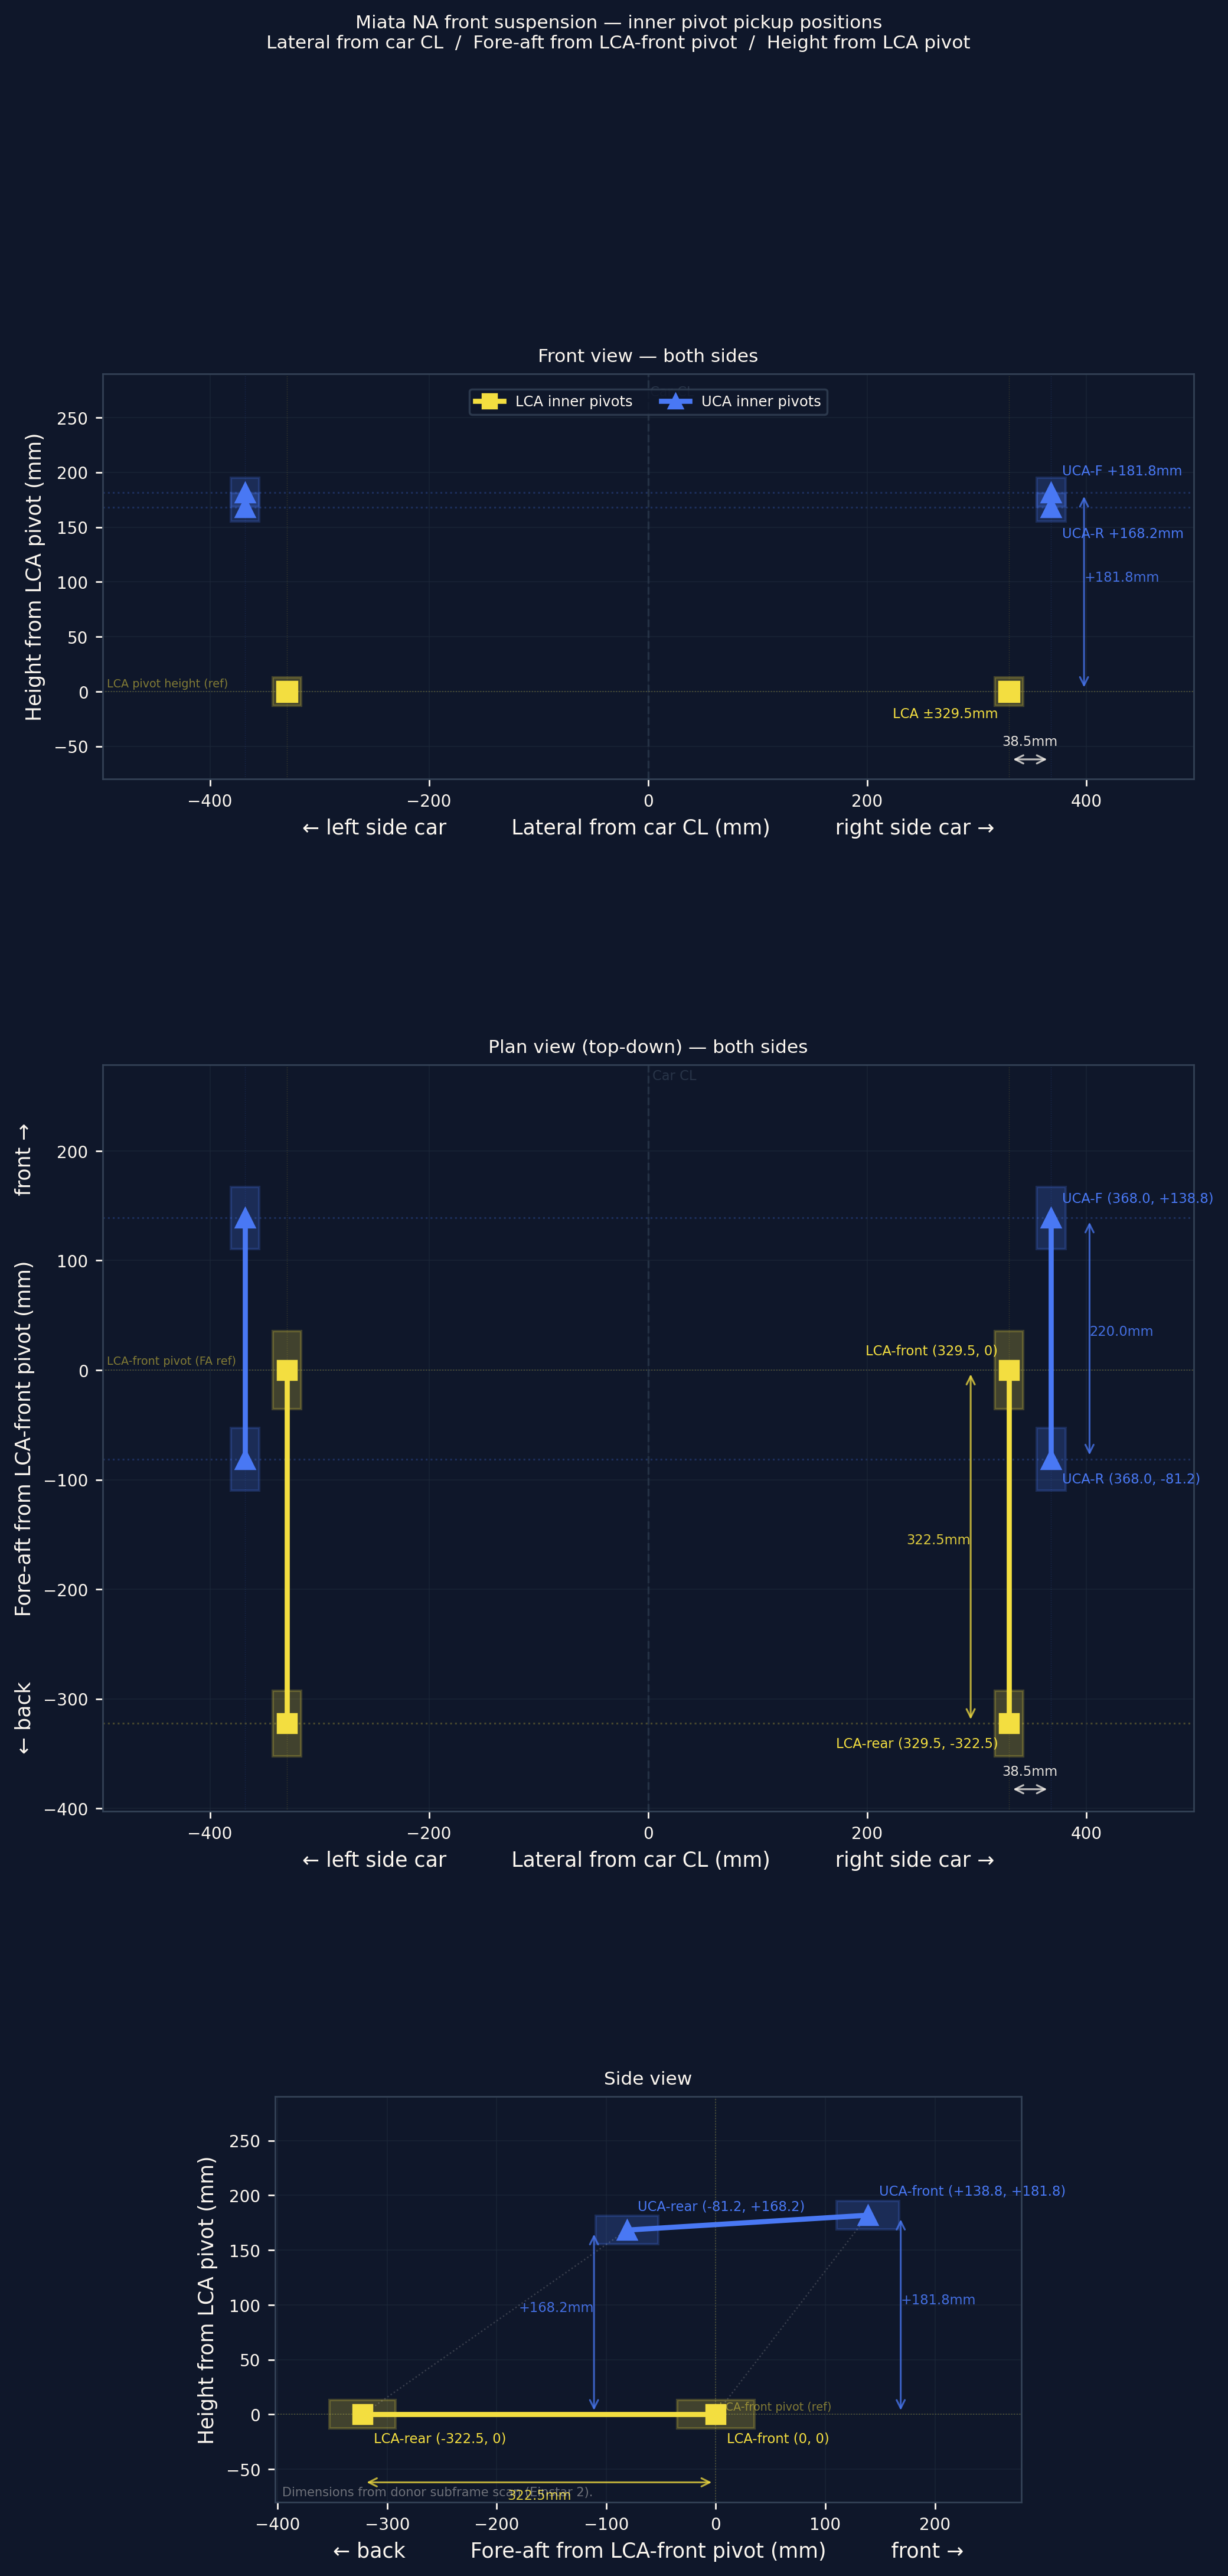
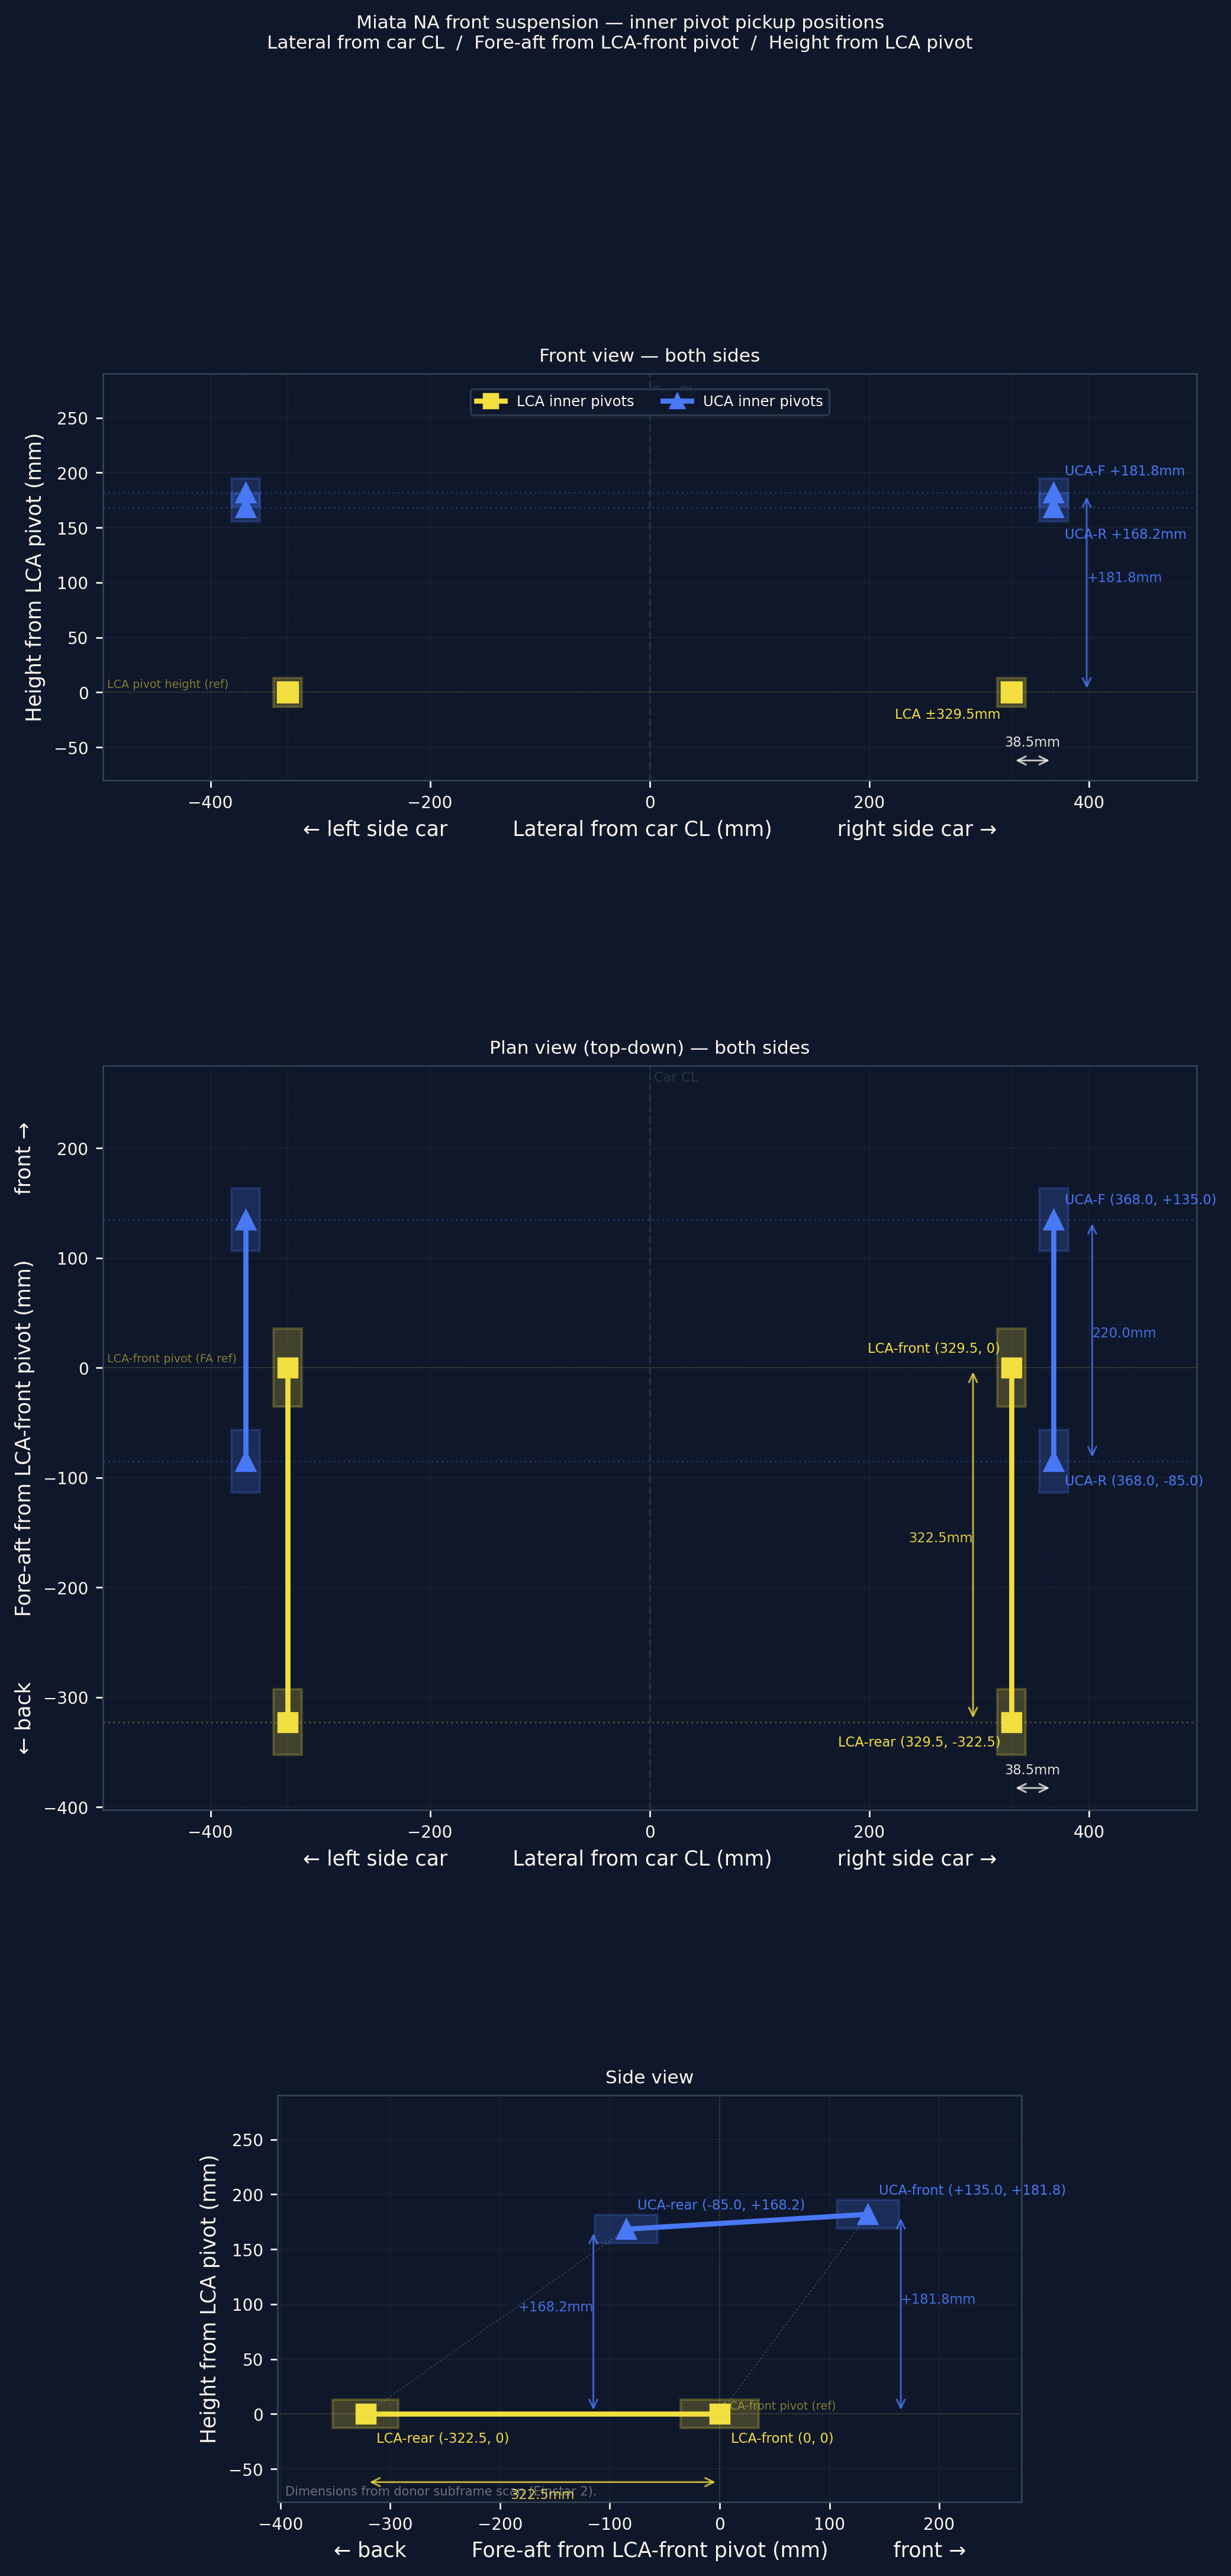
A40: UCA pivots are symmetric +/-110mm from BJ (was deriving asymmetric from car-frame fa)

diff --git a/scripts/plot_geometry_reference.py b/scripts/plot_geometry_reference.py
@@ -142,14 +142,10 @@ SUSP = dict(
     lca_arb_fa=+35.0,  # ARB end-link: fore-aft = +35mm (forward of BJ)
     # ── UCA inner pivot positions (donor scan — symmetric arm) ────────────────
     # UCA is SYMMETRIC: front and rear pivots 220mm apart c-to-c, BJ centred.
-    # Lateral arm length (UBJ-to-pivot line) = 250 mm.  UCA pivot line sits
-    # ~9 mm INBOARD of the LCA pivot line (the opposite of the forum CAD,
-    # which had UCA 50 mm outboard).  Confirmation question outstanding —
-    # see the "47 mm out from LCA" data point that disagrees with two other
-    # measurements; provisionally using the two consistent measurements.
+    # Lateral arm length (UBJ-to-pivot line) = 250 mm.
     uca_hub_to_pivot=382.0,  # lateral: hub centre to UCA inner pivot line (mm)
-    uca_fa_front=113.8,  # UCA front pivot: +113.8 mm forward of BJ
-    uca_fa_rear=106.2,  # UCA rear pivot: 106.2 mm rearward of BJ (symmetric 220 c-c)
+    uca_fa_front=110.0,  # UCA front pivot: +110 mm forward of BJ (symmetric)
+    uca_fa_rear=110.0,   # UCA rear pivot:  110 mm rearward of BJ (symmetric)
     uca_z_front=181.78,  # UCA front pivot height above LCA pivot
     uca_z_rear=168.22,  # UCA rear pivot height above LCA pivot
     uca_z_drop=23.75,  # UCA inner pivot is 23.75 mm below UBJ height

diff --git a/content/a40/geometry-design-reference.md b/content/a40/geometry-design-reference.md
@@ -117,8 +117,8 @@ Dimensions started as estimates pulled from published Miata data (factory specs,
 | UCA inner pivot from car CL | 378.0 mm | **368 mm** | scanned | hub face − uca_hub_to_pivot = 750 − 382 |
 | UCA effective length (UBJ → inner pivot, lateral) | 199.8 mm | **250 mm** | scanned | scan: 382 from hub face − 132 (UBJ from hub face) |
 | UCA arm symmetry | asymmetric (+113.5/−143.5 fa) | **symmetric (±110 from BJ)** | scanned | scan: front and rear pivots 220 mm apart, BJ centred |
-| UCA front pivot fa from BJ | +113.5 mm fwd | **+113.8 mm fwd** | derived | from symmetric 220 mm c-c + UBJ position |
-| UCA rear pivot fa from BJ | 143.5 mm aft | **106.2 mm aft** | derived | from symmetric 220 mm c-c + UBJ position |
+| UCA front pivot fa from BJ | +113.5 mm fwd | **+110 mm fwd** | scanned | symmetric arm |
+| UCA rear pivot fa from BJ | 143.5 mm aft | **−110 mm aft** | scanned | symmetric arm |
 | UCA front pivot z above LCA pivot | 192 mm | **181.78 mm** | scanned | UCA tilted slightly front-high (6.78 mm) |
 | UCA rear pivot z above LCA pivot | 170 mm | **168.22 mm** | scanned | |
 | UCA pivot centre z above LCA pivot | 181 mm | **175 mm** | scanned | (front + rear)/2 |